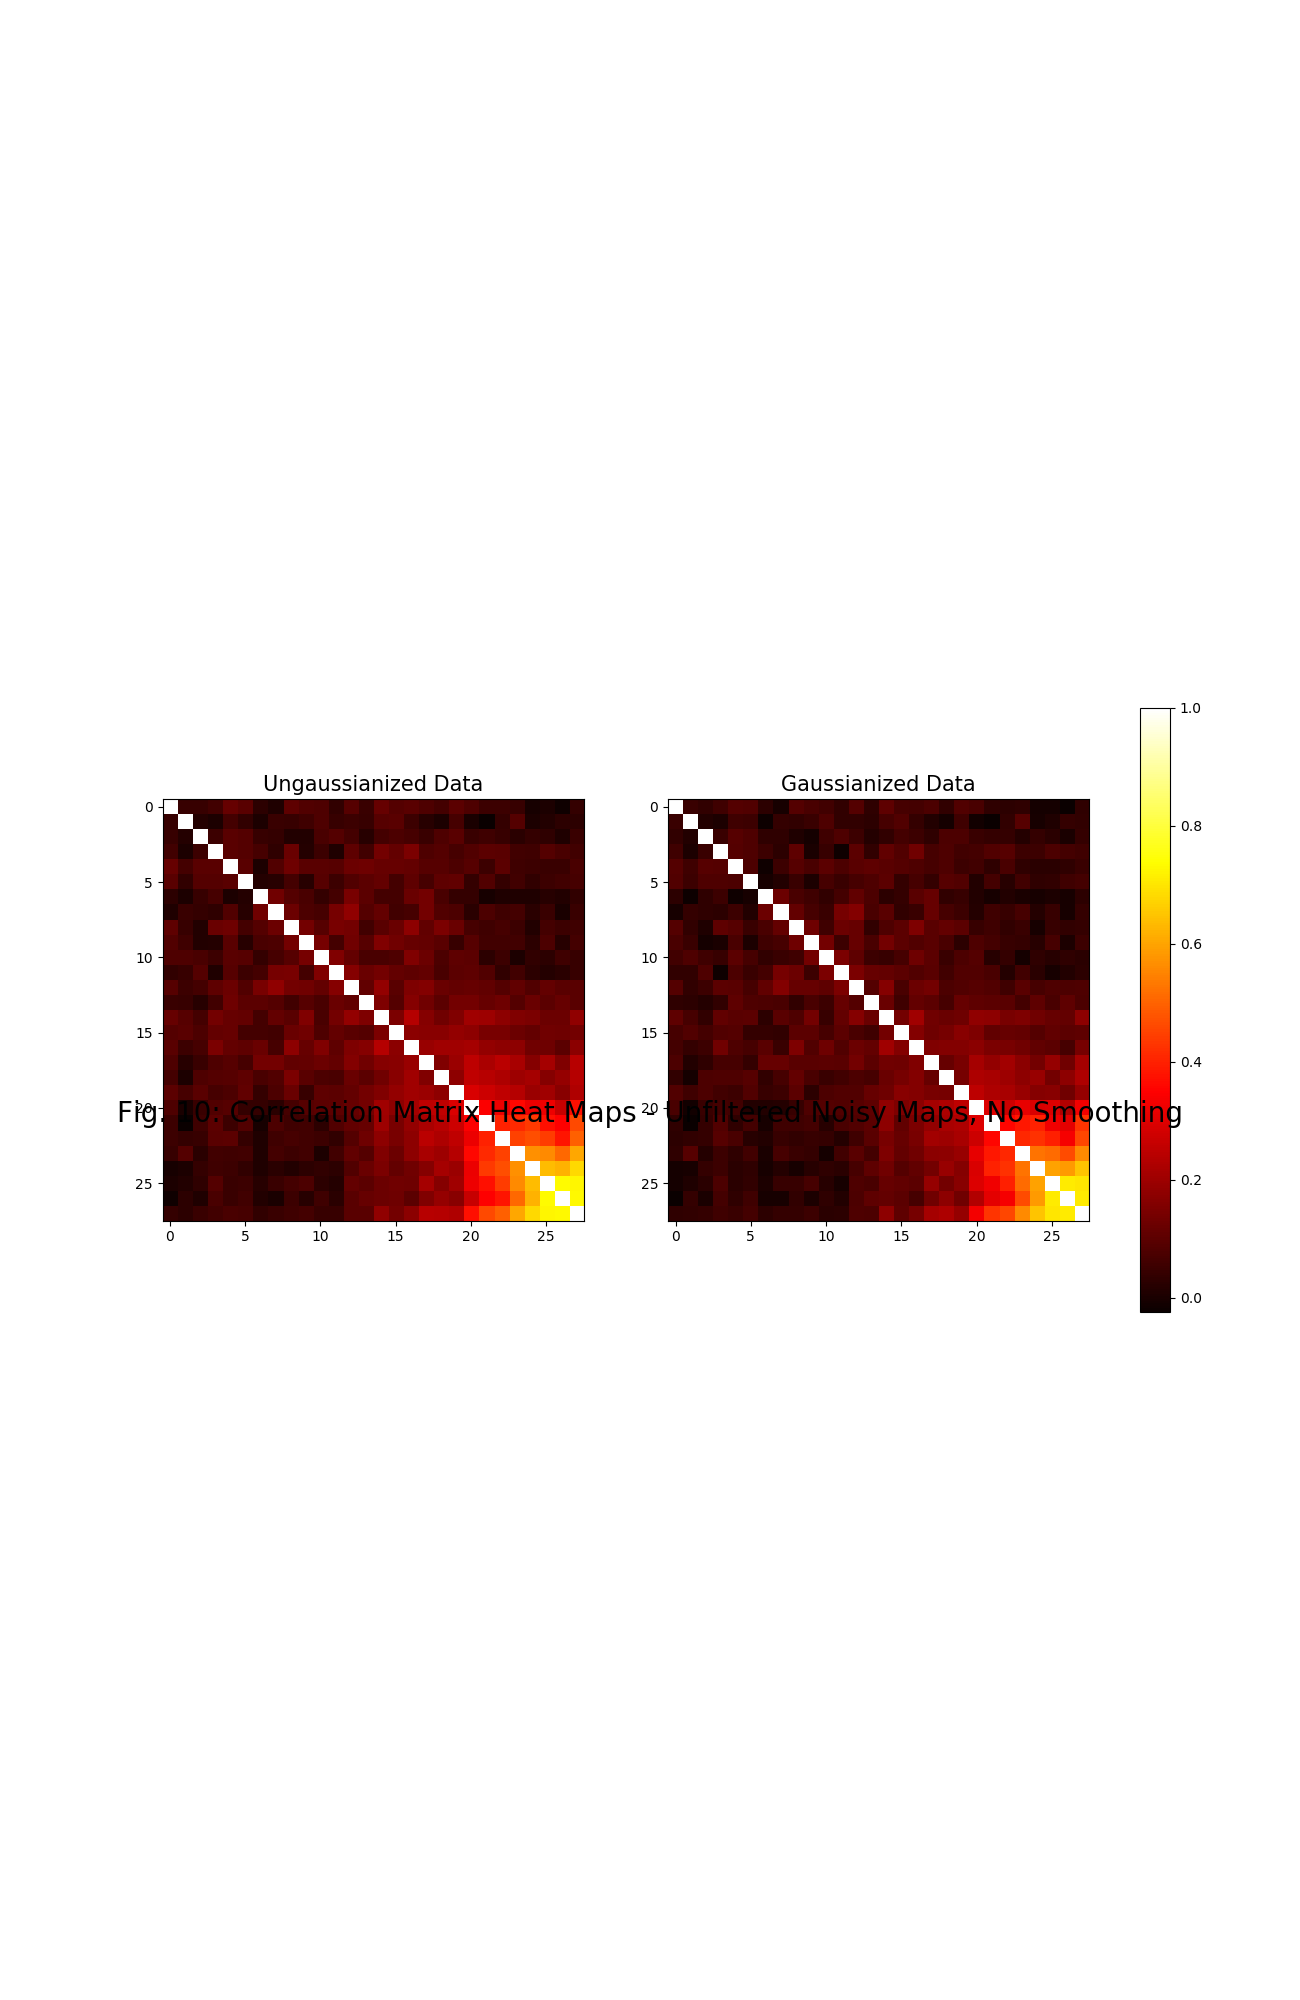
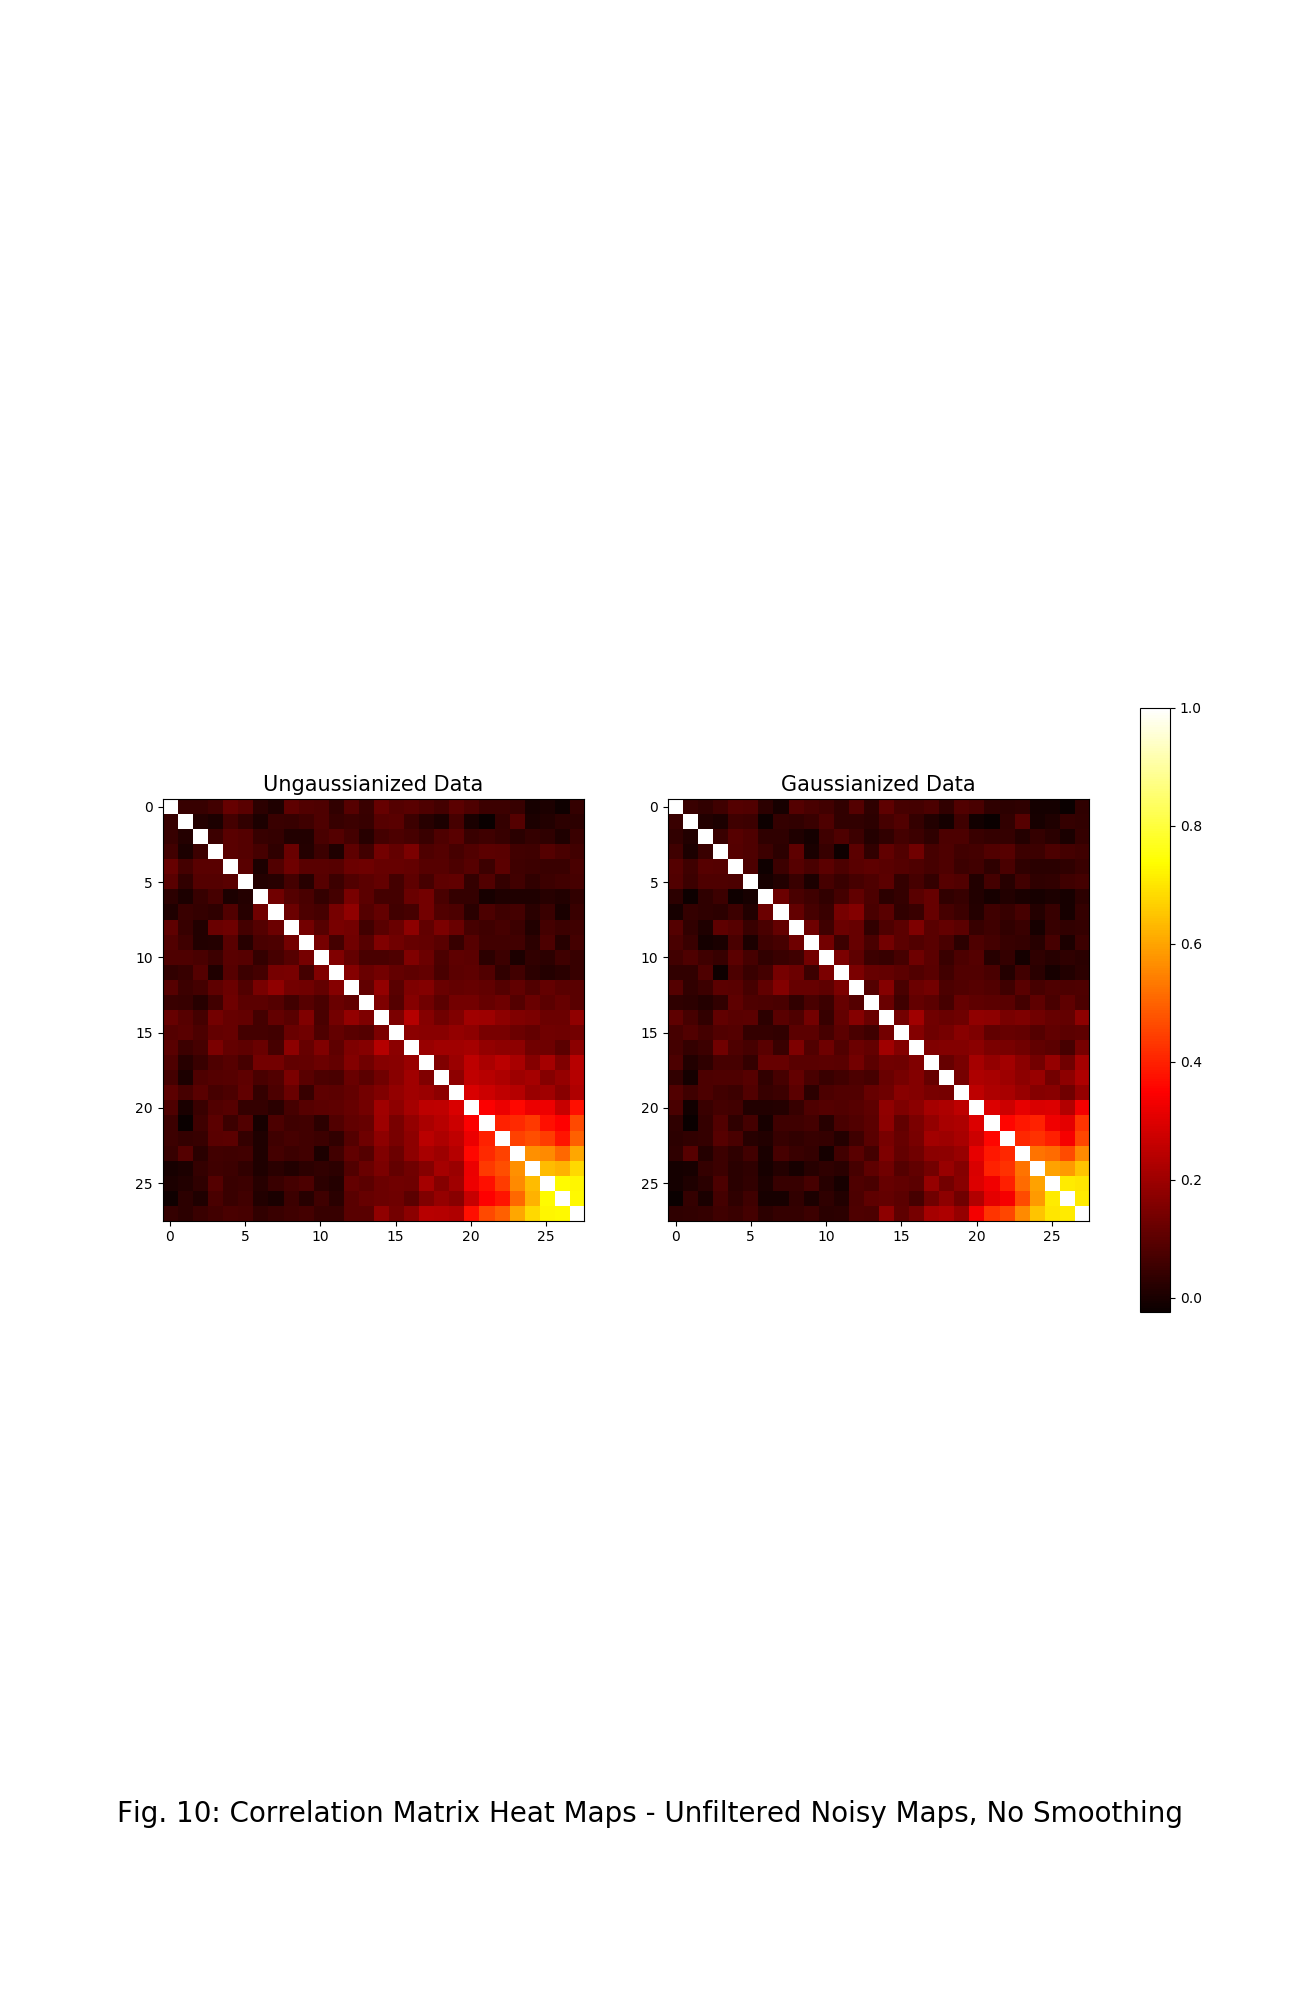
format

diff --git a/Parallel Gaussianization/Noisy Maps/gauss_SNR_nois.py b/Parallel Gaussianization/Noisy Maps/gauss_SNR_nois.py
@@ -174,7 +174,7 @@ correlgauss = corr_mat(covargauss)
 fig2, (ax1, ax2) = plt.subplots(nrows=1, ncols=2, figsize = (13, 20))
 axlist = [ax1, ax2]
 
-fig2.suptitle("Fig. 10: Correlation Matrix Heat Maps - Unfiltered Noisy Maps, No Smoothing", fontsize = "20", y = 0.45)
+fig2.suptitle("Fig. 10: Correlation Matrix Heat Maps - Unfiltered Noisy Maps, No Smoothing", fontsize = "20", y = 0.1)
 first = ax1.imshow(np.array(correl), cmap = 'hot', vmin = -0.025, vmax = 1.0)
 ax1.set_title('Ungaussianized Data', fontsize = "15")
 
